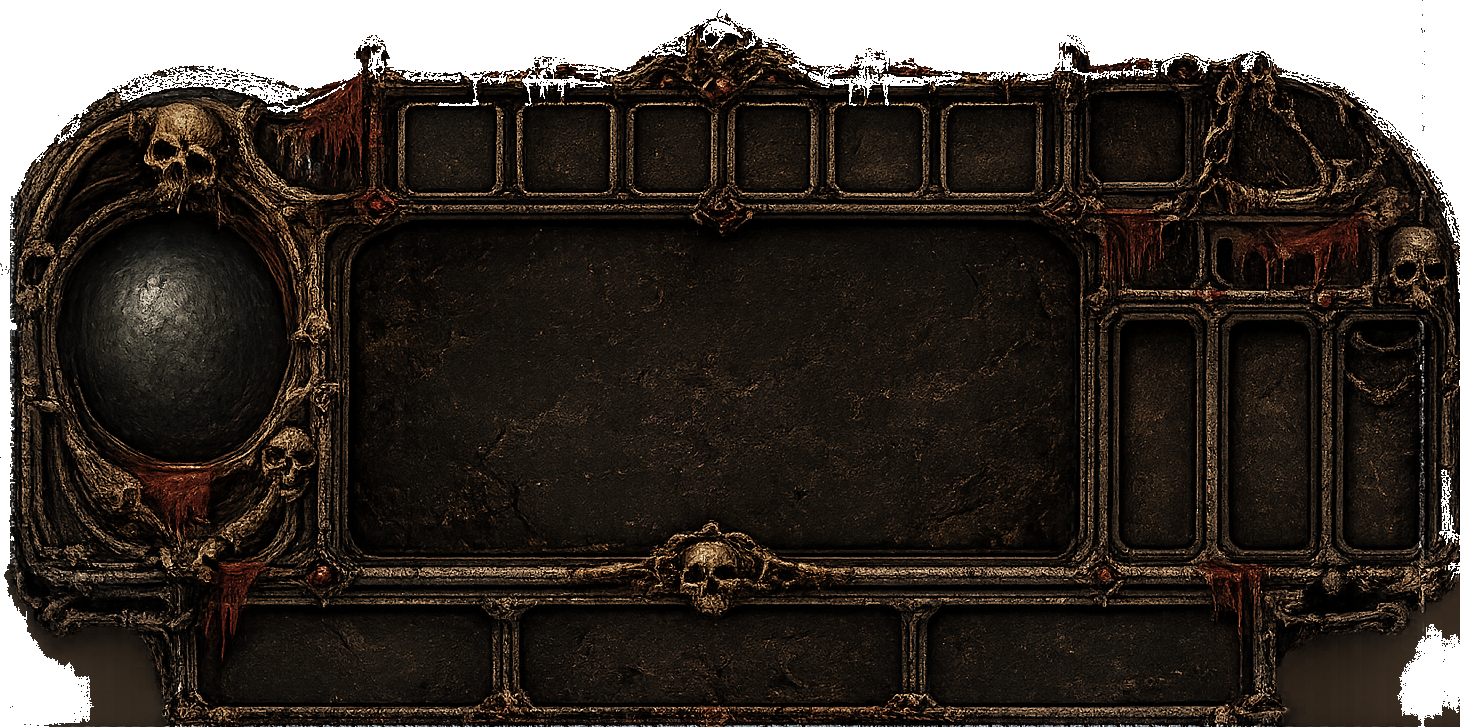
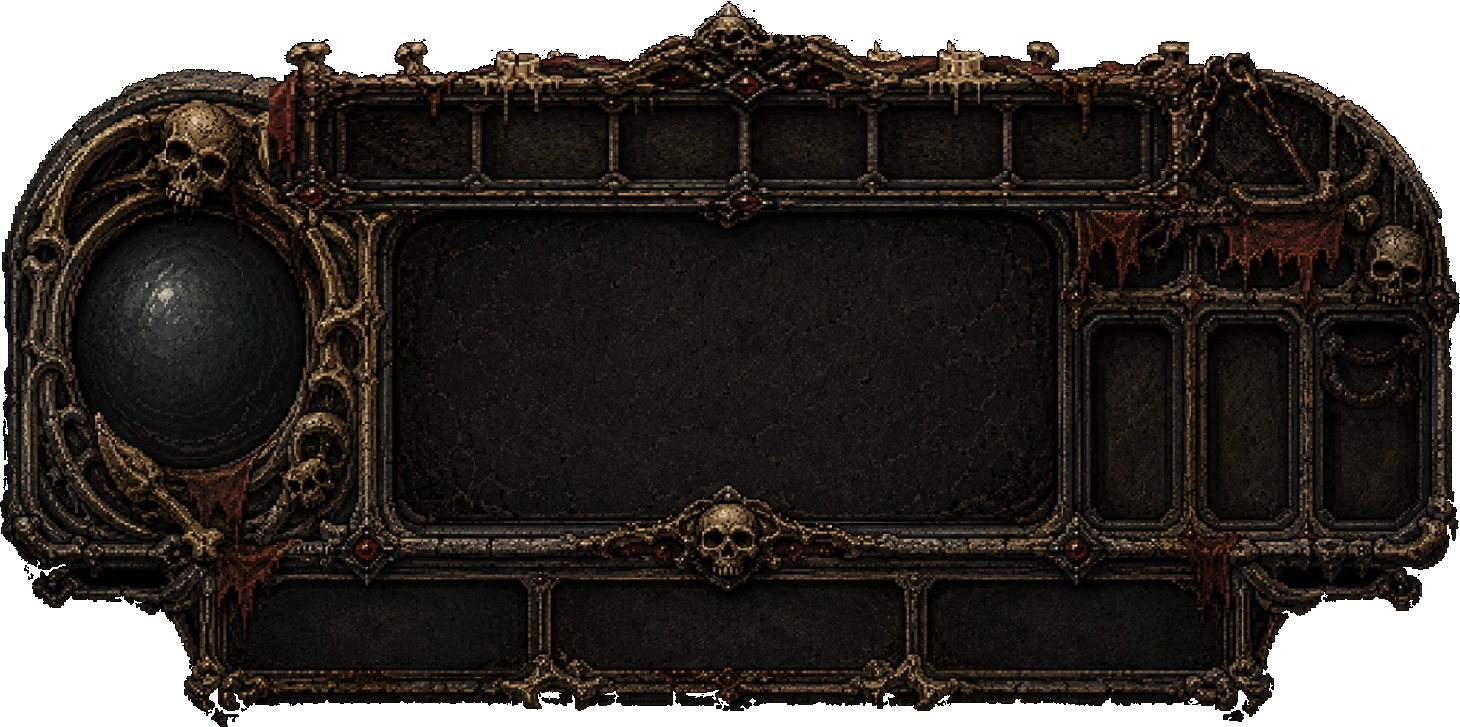
The reliquary, corrected: the crown carries the hand in POUCH too (#71)
Installed exactly as supplied by the `castlebrynth-tray-exact` package. This
branch is an install, not a design pass: the art, the coordinate map and the
two patches are the package's, applied verbatim by its own installer.

- The runtime plate is replaced with the clean reliquary master, its six
  crown sockets widened, and `reference/visual/reliquary-runtime-target.png`
  is kept beside it as the art-direction reference it was measured from.
- `src/content/ui/reliquary.ts` is re-measured against that target. Every
  number stays a fraction of the panel, so the apparatus still projects
  uniformly and nothing inside it reflows with the viewport (arts 22–24).
- POUCH draws the canonical six in the same authored crown sockets FIGHT
  uses, through a new `#pouchHand` layer that spans the plate and takes no
  taps itself — only the six dice do. The hand is anatomy; the well is the
  panel's changing contents (art. 67), so the well is left to spares,
  trinkets and what is carried and no longer repeats the hand as generic
  rack rows.
- The unplated tray is untouched: with no painted plate the old behavior
  stands, because missing art is a plainer tray and never a broken one
  (art. 126).
- `test/reliquary-art-direction.test.ts` stands over the contract — six
  sockets, each inside normalized tray-space, one die per socket for the
  canonical hand, and the crown above the well above the footer.

npm test: 846 passed, 65 files. npm run build: clean.
[…]

diff --git a/src/content/ui/reliquary.ts b/src/content/ui/reliquary.ts
@@ -1,163 +1,125 @@
 /**
- * **The reliquary, as composition** — the one authoritative statement of
- * where anything in the tray stands.
+ * The reliquary, as composition.
  *
- * `ui/reliquary.png` owns appearance: silhouette, ornament, material,
- * recesses, borders, weight. This file owns composition: what is where, in the
- * artwork's own pixels. CSS owns almost nothing — it renders and it takes
- * taps, and it decides no position at all.
- *
- * Every number below was **measured once** against the asset as rendered, and
- * is now the source of truth. Nothing at runtime re-measures a decorative
- * recess; nothing at runtime infers a position from a flex box. When the art
- * director moves something, they move it here.
- *
- * Coordinates are **fractions of the panel**, 0 to 1 across and 0 to 1 down,
- * which is the space the art direction arrives in
- * (`reference/visual/reliquary-zones.png`). An art director reads a number
- * back off their own diagram; nobody converts anything.
+ * The PNG owns appearance. This file owns placement. Everything is expressed
+ * in normalized tray-space (0..1), then projected uniformly by tray-space.ts.
+ * No viewport-dependent reflow is allowed inside the painted apparatus.
  */
 
 import type { TrayFrame, TrayPose, TrayRect } from '../../shell/tray-space.js'
 
-/** The panel's own dimensions. The manifest declares the same two numbers. */
+/** Keep the current runtime contract: the supplied painting is shipped at this size. */
 export const RELIQUARY_FRAME: TrayFrame = {
   authoredWidth: 1460,
   authoredHeight: 727,
 }
 
 export interface ReliquaryMap extends TrayFrame {
-  /** The glass the body's level rises in. */
   readonly healthOrb: TrayRect
-  /** Where the numerals sit, under the glass. */
   readonly healthText: TrayRect
-  /** The inscription line: what is coming, and what is unspent. */
   readonly statusRail: TrayRect
-  /** The row the dice stand in. */
   readonly diceZone: TrayRect
-  /** The dark central recess. */
   readonly mainWell: TrayRect
-  /** The running total, at the well's near corner. */
   readonly score: TrayRect
-  /**
-   * The turn's verb. **There is no painted plaque for an action**, so this is
-   * a bare anchor and the verb is text on the apparatus. Reported as owed
-   * rather than drawn in CSS.
-   */
   readonly action: TrayRect
-  /** The small utility glyph the panel carves a place for. */
   readonly menu: TrayRect
-  /** The three beds along the foot. */
   readonly tabs: readonly TrayRect[]
 }
 
 /**
- * **The zones, from the art director's diagram.**
+ * Measured from reference/visual/reliquary-runtime-target.png.
  *
- * Top rail 0–18%, dice 18–42%, main well 42–88%, footer 88–100%. The orb, the
- * menu glyph and the three tab beds are the diagram's own numbers.
+ * The six sockets are the crown. The wide central recess is the active panel.
+ * The three footer beds are Actions / Pouch / Map. The right-hand vertical
+ * cavities are secondary/future carried-item space; they are not die slots.
  */
 export const RELIQUARY: ReliquaryMap = {
   ...RELIQUARY_FRAME,
-  healthOrb: { x: 0.055, y: 0.305, width: 0.128, height: 0.385 },
-  healthText: { x: 0.025, y: 0.70, width: 0.19, height: 0.16 },
-  statusRail: { x: 0.26, y: 0.44, width: 0.52, height: 0.08 },
-  diceZone: { x: 0.0, y: 0.18, width: 1.0, height: 0.24 },
-  /**
-   * **The recess, measured off the painting rather than off the diagram.**
-   *
-   * The diagram declares the well as the panel's full width at 42–88%, which
-   * is neither where the carving is nor a shape anything can stand in: at full
-   * width its rows lay across the health orb on the left and the ornament on
-   * the right, and at 88% its last row sat on top of a tab.
-   *
-   * The grooves that bound the carved recess are the darkest columns and rows
-   * in the panel, so they can be found rather than guessed: they fall at
-   * x 0.241 and 0.744, y 0.308 and 0.836. What is below is those bounds inset
-   * off the groove itself, so what stands in the well stands *inside* the
-   * carving instead of on its lip.
-   */
-  mainWell: { x: 0.252, y: 0.322, width: 0.481, height: 0.5 },
-  score: { x: 0.26, y: 0.70, width: 0.24, height: 0.1 },
-  action: { x: 0.6, y: 0.68, width: 0.18, height: 0.14 },
-  menu: { x: 0.9, y: 0.04, width: 0.06, height: 0.1 },
+
+  // The orb is deliberately large. The fill is presentation; the number sits
+  // near its foot and must not be allowed to collapse the glass.
+  healthOrb: { x: 0.043, y: 0.220, width: 0.190, height: 0.390 },
+  healthText: { x: 0.055, y: 0.585, width: 0.145, height: 0.105 },
+
+  // Fight inscriptions live inside the upper lip of the central well, not on
+  // top of the six dice.
+  statusRail: { x: 0.270, y: 0.282, width: 0.300, height: 0.055 },
+
+  // The crown containing the canonical six-die hand.
+  diceZone: { x: 0.205, y: 0.080, width: 0.575, height: 0.185 },
+
+  // The large authored recess from the clean panel.
+  mainWell: { x: 0.255, y: 0.270, width: 0.470, height: 0.450 },
+
+  // Secondary fight readout positions inside the well.
+  score: { x: 0.270, y: 0.640, width: 0.205, height: 0.065 },
+  action: { x: 0.590, y: 0.635, width: 0.135, height: 0.075 },
+
+  // The remaining small top-right recess after the widened six-die crown.
+  menu: { x: 0.800, y: 0.095, width: 0.055, height: 0.105 },
+
+  // The actual three carved footer beds.
   tabs: [
-    { x: 0.13, y: 0.86, width: 0.24, height: 0.12 },
-    { x: 0.38, y: 0.86, width: 0.24, height: 0.12 },
-    { x: 0.63, y: 0.86, width: 0.24, height: 0.12 },
+    { x: 0.132, y: 0.800, width: 0.235, height: 0.140 },
+    { x: 0.370, y: 0.800, width: 0.250, height: 0.140 },
+    { x: 0.623, y: 0.800, width: 0.235, height: 0.140 },
   ],
 }
 
 /**
- * **The six carved cells the dice rest in**, measured off the panel.
+ * The six widened sockets in the supplied runtime painting.
  *
- * The diagram's own slot table puts six 0.11-wide slots at a pitch of 0.14
- * starting at x 0.14 — which overlaps the orb it also declares at 0.02–0.20,
- * and does not line up with the six recesses the panel actually carries. The
- * painted cells win, because the direction that has been given twice is *the
- * dice go in the six top slots*. The diagram's slot sizes are used for the
- * **hit areas** instead, which is what its own note says they are.
+ * These are artwork geometry, not a layout algorithm. Six is the authored
+ * hand. A shorter hand is centered for defensive/general engine support; a
+ * longer hand may spill below, but no shipped composition is designed around
+ * that case.
  */
 export const DIE_CELLS: readonly TrayRect[] = [
-  { x: 0.270, y: 0.131, width: 0.072, height: 0.13 },
-  { x: 0.348, y: 0.131, width: 0.070, height: 0.13 },
-  { x: 0.423, y: 0.131, width: 0.070, height: 0.13 },
-  { x: 0.499, y: 0.131, width: 0.069, height: 0.13 },
-  { x: 0.574, y: 0.131, width: 0.070, height: 0.13 },
-  { x: 0.649, y: 0.131, width: 0.070, height: 0.13 },
+  { x: 0.2110, y: 0.0895, width: 0.0882, height: 0.1602 },
+  { x: 0.3065, y: 0.0895, width: 0.0882, height: 0.1602 },
+  { x: 0.4020, y: 0.0895, width: 0.0882, height: 0.1602 },
+  { x: 0.4966, y: 0.0895, width: 0.0882, height: 0.1602 },
+  { x: 0.5921, y: 0.0895, width: 0.0882, height: 0.1602 },
+  { x: 0.6877, y: 0.0895, width: 0.0882, height: 0.1602 },
 ]
 
 /**
- * **How large a die is drawn, and how large a die is pressed.**
- *
- * *"These are hit areas. Draw dice centered within each slot."* — the diagram,
- * and it is the same separation that solved the dice once already. The drawing
- * is the painted cell; the target is grown about it to the cell's own pitch
- * and to the full depth of the dice zone.
- *
- * At a 390-pixel stage that is a target of about **30 × 47 CSS pixels**. The
- * height clears art. 128's floor; **the width does not, and cannot** — it is
- * bounded by the pitch of the painted cells, and widening it would overlap the
- * neighbouring die. The diagram's own 0.11-wide slots would fix it and do not
- * sit on the carving. That is the one open question in this file.
+ * The visible die nearly fills its carved socket. The target is wider than the
+ * old implementation but never visibly draws a box around the die.
  */
-export const DIE_SPRITE = 0.062
-export const DIE_TARGET_WIDTH = 0.0757
-export const DIE_TARGET_HEIGHT = 0.24
+export const DIE_SPRITE = 0.078
+export const DIE_TARGET_WIDTH = 0.092
+export const DIE_TARGET_HEIGHT = 0.200
 
-/**
- * **The hand, as authored placement — and the hand is six.**
- *
- * `HAND_SIZE` is six (art. 60, in content) and the panel carries six cells, so
- * the composition is one die per cell and that is the picture. Other counts
- * are handled and not designed: fewer sit in the middle cells, more overflow
- * to a row beneath. art. 128 is unchanged — the tray renders the hand it is
- * given, nothing caps it, and a cell is not a slot a die must fill.
- */
 export type DiePose = TrayPose
 
-/** A small deterministic tilt, so a rack of dice does not read as a row of icons. */
-const TILTS = [-3, 2, -2, 3, -1, 2, -3, 1]
+/** Sockets keep the canonical six square; only overflow receives a tiny tilt. */
+const TILTS = [0, 0, 0, 0, 0, 0, -2, 2] as const
 
 export function posesFor(count: number): readonly DiePose[] {
   if (count <= 0) return []
+
   const cells = DIE_CELLS
   const perRow = cells.length
   const out: DiePose[] = []
+
   for (let i = 0; i < count; i++) {
     const row = Math.floor(i / perRow)
     const inRow = Math.min(perRow, count - row * perRow)
     const from = Math.floor((perRow - inRow) / 2)
     const cell = cells[from + (i % perRow)] ?? cells[cells.length - 1]!
+
     const side = DIE_SPRITE
     const tall = (side * RELIQUARY.authoredWidth) / RELIQUARY.authoredHeight
+
     out.push({
       x: cell.x + (cell.width - side) / 2,
-      y: cell.y + (cell.height - tall) / 2 + row * (tall + 0.04),
+      y: cell.y + (cell.height - tall) / 2 + row * (tall + 0.035),
       width: side,
       height: tall,
       rotation: TILTS[i % TILTS.length] ?? 0,
     })
   }
+
   return out
 }

diff --git a/src/main.ts b/src/main.ts
@@ -268,6 +268,7 @@ const sheetBand = must<HTMLDivElement>('sheet')
 const vitalsRegion = must<HTMLDivElement>('vitals')
 const tabBar = must<HTMLDivElement>('tabs')
 const pouchRegion = must<HTMLDivElement>('pouch')
+const pouchHandRegion = must<HTMLDivElement>('pouchHand')
 const actStrip = must<HTMLDivElement>('acts')
 const fightPanel = must<HTMLDivElement>('fight')
 const trayBand = must<HTMLDivElement>('tray')
@@ -694,6 +695,13 @@ function poseTray(): void {
   // it holds, so putting something new in the tray is writing rows and
   // nothing else.
   fillWell()
+  // POUCH uses the same authored six crown sockets as FIGHT. This is
+  // deliberately outside the central well: the hand is anatomy; the
+  // well is the panel's changing contents.
+  if (pouchHandRegion.childElementCount > 0) {
+    pouchHandRegion.classList.add('posed')
+    poseHand(pouchHandRegion)
+  }
   const totals = fightPanel.querySelector<HTMLElement>('.totals')
   if (totals !== null) place(totals, RELIQUARY.statusRail, size)
   // The panel carves a small recess at its top right; the card's glyph is the
@@ -1712,6 +1720,10 @@ function tabs(): void {
 }
 
 function panels(): void {
+  // The crown hand is panel-state, not well content. Rebuild it only
+  // when POUCH is the active panel so stale dice never survive focus.
+  pouchHandRegion.replaceChildren()
+  pouchHandRegion.classList.remove('posed')
   // A screen takes the whole panel area: there is nowhere else to be until
   // it is answered, so ACTS is the only thing under it and the other two are
   // shut (art. 67).
@@ -2266,34 +2278,43 @@ function bestLine(): Line | null {
 function pouch(): void {
   pouchRegion.replaceChildren()
   const run = ledgers.run!
-  // One die, one slot (art. 67). The face set is the choosing screen's job.
-  run.hand.dice.forEach((die, n) => pouchRegion.append(dieChip(die, `hand:${n}`)))
-  // arts 55–56: the invitation, until the first find fills it.
-  for (let n = run.hand.dice.length; n < ledgers.permanent.handSize; n++) {
-    pouchRegion.append(emptySlot())
+
+  // In the painted reliquary the canonical hand belongs to the six authored
+  // crown sockets. It is not repeated as generic rack content in the central
+  // well. The fallback tray keeps the old behavior so missing art never breaks
+  // the game (art. 126).
+  if (plated()) {
+    run.hand.dice.forEach((die, n) =>
+      pouchHandRegion.append(dieChip(die, `hand:${n}`)),
+    )
+  } else {
+    run.hand.dice.forEach((die, n) =>
+      pouchRegion.append(dieChip(die, `hand:${n}`)),
+    )
+    for (let n = run.hand.dice.length; n < ledgers.permanent.handSize; n++) {
+      pouchRegion.append(emptySlot())
+    }
   }
 
+  // Everything beyond the canonical hand belongs in the central pouch well:
+  // spares, rolling goods and carried things. The well can flow those contents
+  // without ever making a composition decision about the six hand dice.
   const spares = sparesOf(ledgers.permanent)
   if (spares.length > 0) {
     pouchRegion.append(hairline(''))
-    spares.forEach((die, n) => pouchRegion.append(dieChip(die, `spare:${n}`)))
+    spares.forEach((die, n) =>
+      pouchRegion.append(dieChip(die, `spare:${n}`)),
+    )
   }
 
-  // card 94: **and the carried things, where they can be read.** A trinket
-  // could be inspected in a fight and nowhere else, which is the one place a
-  // player is too busy to read six faces. The dashed hairline is the whole
-  // separator the two materials need now that they are two materials.
   const trinkets = carriedTrinkets(goods())
   if (trinkets.length > 0) {
     pouchRegion.append(hairline('iron'))
     for (const one of trinkets) pouchRegion.append(trinketReading(one))
   }
 
-  // art. 68: what you carry is a possession and answers the same way.
   for (const item of run.carried) pouchRegion.append(carriedSlot(item))
 
-  // art. 69: the panel says what it is rather than leaving the spares
-  // unexplained. It never instructs — it states what is true of them.
   const aside = document.createElement('div')
   aside.className = 'aside'
   aside.textContent = NOTICES[spares.length > 0 ? 'pouch.spares' : 'pouch.whole'] ?? ''

diff --git a/test/reliquary-art-direction.test.ts b/test/reliquary-art-direction.test.ts
@@ -1,0 +1,53 @@
+import { describe, expect, it } from 'vitest'
+
+import {
+  DIE_CELLS,
+  DIE_SPRITE,
+  RELIQUARY,
+  RELIQUARY_FRAME,
+  posesFor,
+} from '../src/content/ui/reliquary.js'
+
+describe('the reliquary art-direction contract', () => {
+  it('ships exactly six authored crown sockets', () => {
+    expect(DIE_CELLS).toHaveLength(6)
+  })
+
+  it('keeps every crown socket inside normalized tray-space', () => {
+    for (const cell of DIE_CELLS) {
+      expect(cell.x).toBeGreaterThanOrEqual(0)
+      expect(cell.y).toBeGreaterThanOrEqual(0)
+      expect(cell.x + cell.width).toBeLessThanOrEqual(1)
+      expect(cell.y + cell.height).toBeLessThanOrEqual(1)
+    }
+  })
+
+  it('the canonical six are one die per crown socket', () => {
+    const poses = posesFor(6)
+    expect(poses).toHaveLength(6)
+    for (let i = 0; i < 6; i++) {
+      const pose = poses[i]!
+      const cell = DIE_CELLS[i]!
+      expect(pose.x).toBeGreaterThanOrEqual(cell.x)
+      expect(pose.y).toBeGreaterThanOrEqual(cell.y)
+      expect(pose.x + pose.width).toBeLessThanOrEqual(cell.x + cell.width)
+      expect(pose.y + pose.height).toBeLessThanOrEqual(cell.y + cell.height)
+      expect(pose.rotation ?? 0).toBe(0)
+    }
+  })
+
+  it('draws the canonical dice materially larger than the previous 0.062 tray width', () => {
+    expect(DIE_SPRITE).toBeGreaterThan(0.062)
+  })
+
+  it('keeps the central well below the crown and the footer below the well', () => {
+    expect(RELIQUARY.mainWell.y).toBeGreaterThan(RELIQUARY.diceZone.y)
+    expect(RELIQUARY.tabs[0]!.y).toBeGreaterThan(
+      RELIQUARY.mainWell.y + RELIQUARY.mainWell.height,
+    )
+  })
+
+  it('preserves the runtime asset dimensions expected by the manifest', () => {
+    expect(RELIQUARY_FRAME).toEqual({ authoredWidth: 1460, authoredHeight: 727 })
+  })
+})

diff --git a/index.html b/index.html
@@ -215,6 +215,18 @@
       #tray.plated .panel.on.rack .chip:active { border-color: var(--gold); }
       #tray.plated .panel.on.rack .slot { width: 40px; height: 40px; padding: 0;
         min-width: 0; font-size: 0; }
+      /* POUCH's canonical six live in the same crown sockets as FIGHT.
+         This layer spans the painted apparatus but takes no taps itself; only
+         the six dice do. The central #pouch remains the well for extras. */
+      #tray.plated #pouchHand { position: absolute; inset: 0; z-index: 4;
+        pointer-events: none; }
+      #tray.plated #pouchHand.posed .chip { display: grid; place-items: center;
+        padding: 0; min-width: 0; background: none; border: none;
+        border-radius: 0; box-shadow: none; pointer-events: auto; }
+      #tray.plated #pouchHand.posed .chip canvas { display: block; }
+      #tray.plated #pouchHand.posed .chip.on .mark {
+        filter: drop-shadow(0 0 3px #d9b36a) drop-shadow(0 0 1px #d9b36a); }
+
       #tray.plated #fight { margin: 0; padding: 0; background: none;
         border-top: none; box-shadow: none; }
       #tray.plated #trayDebug { position: absolute; inset: 0; pointer-events: none;
@@ -625,6 +637,7 @@
           <div id="pouch" class="panel"></div>
           <div id="fight" class="panel"></div>
         </div>
+        <div id="pouchHand"></div>
       </div>
     </div>
     <script type="module" src="/src/main.ts"></script>
